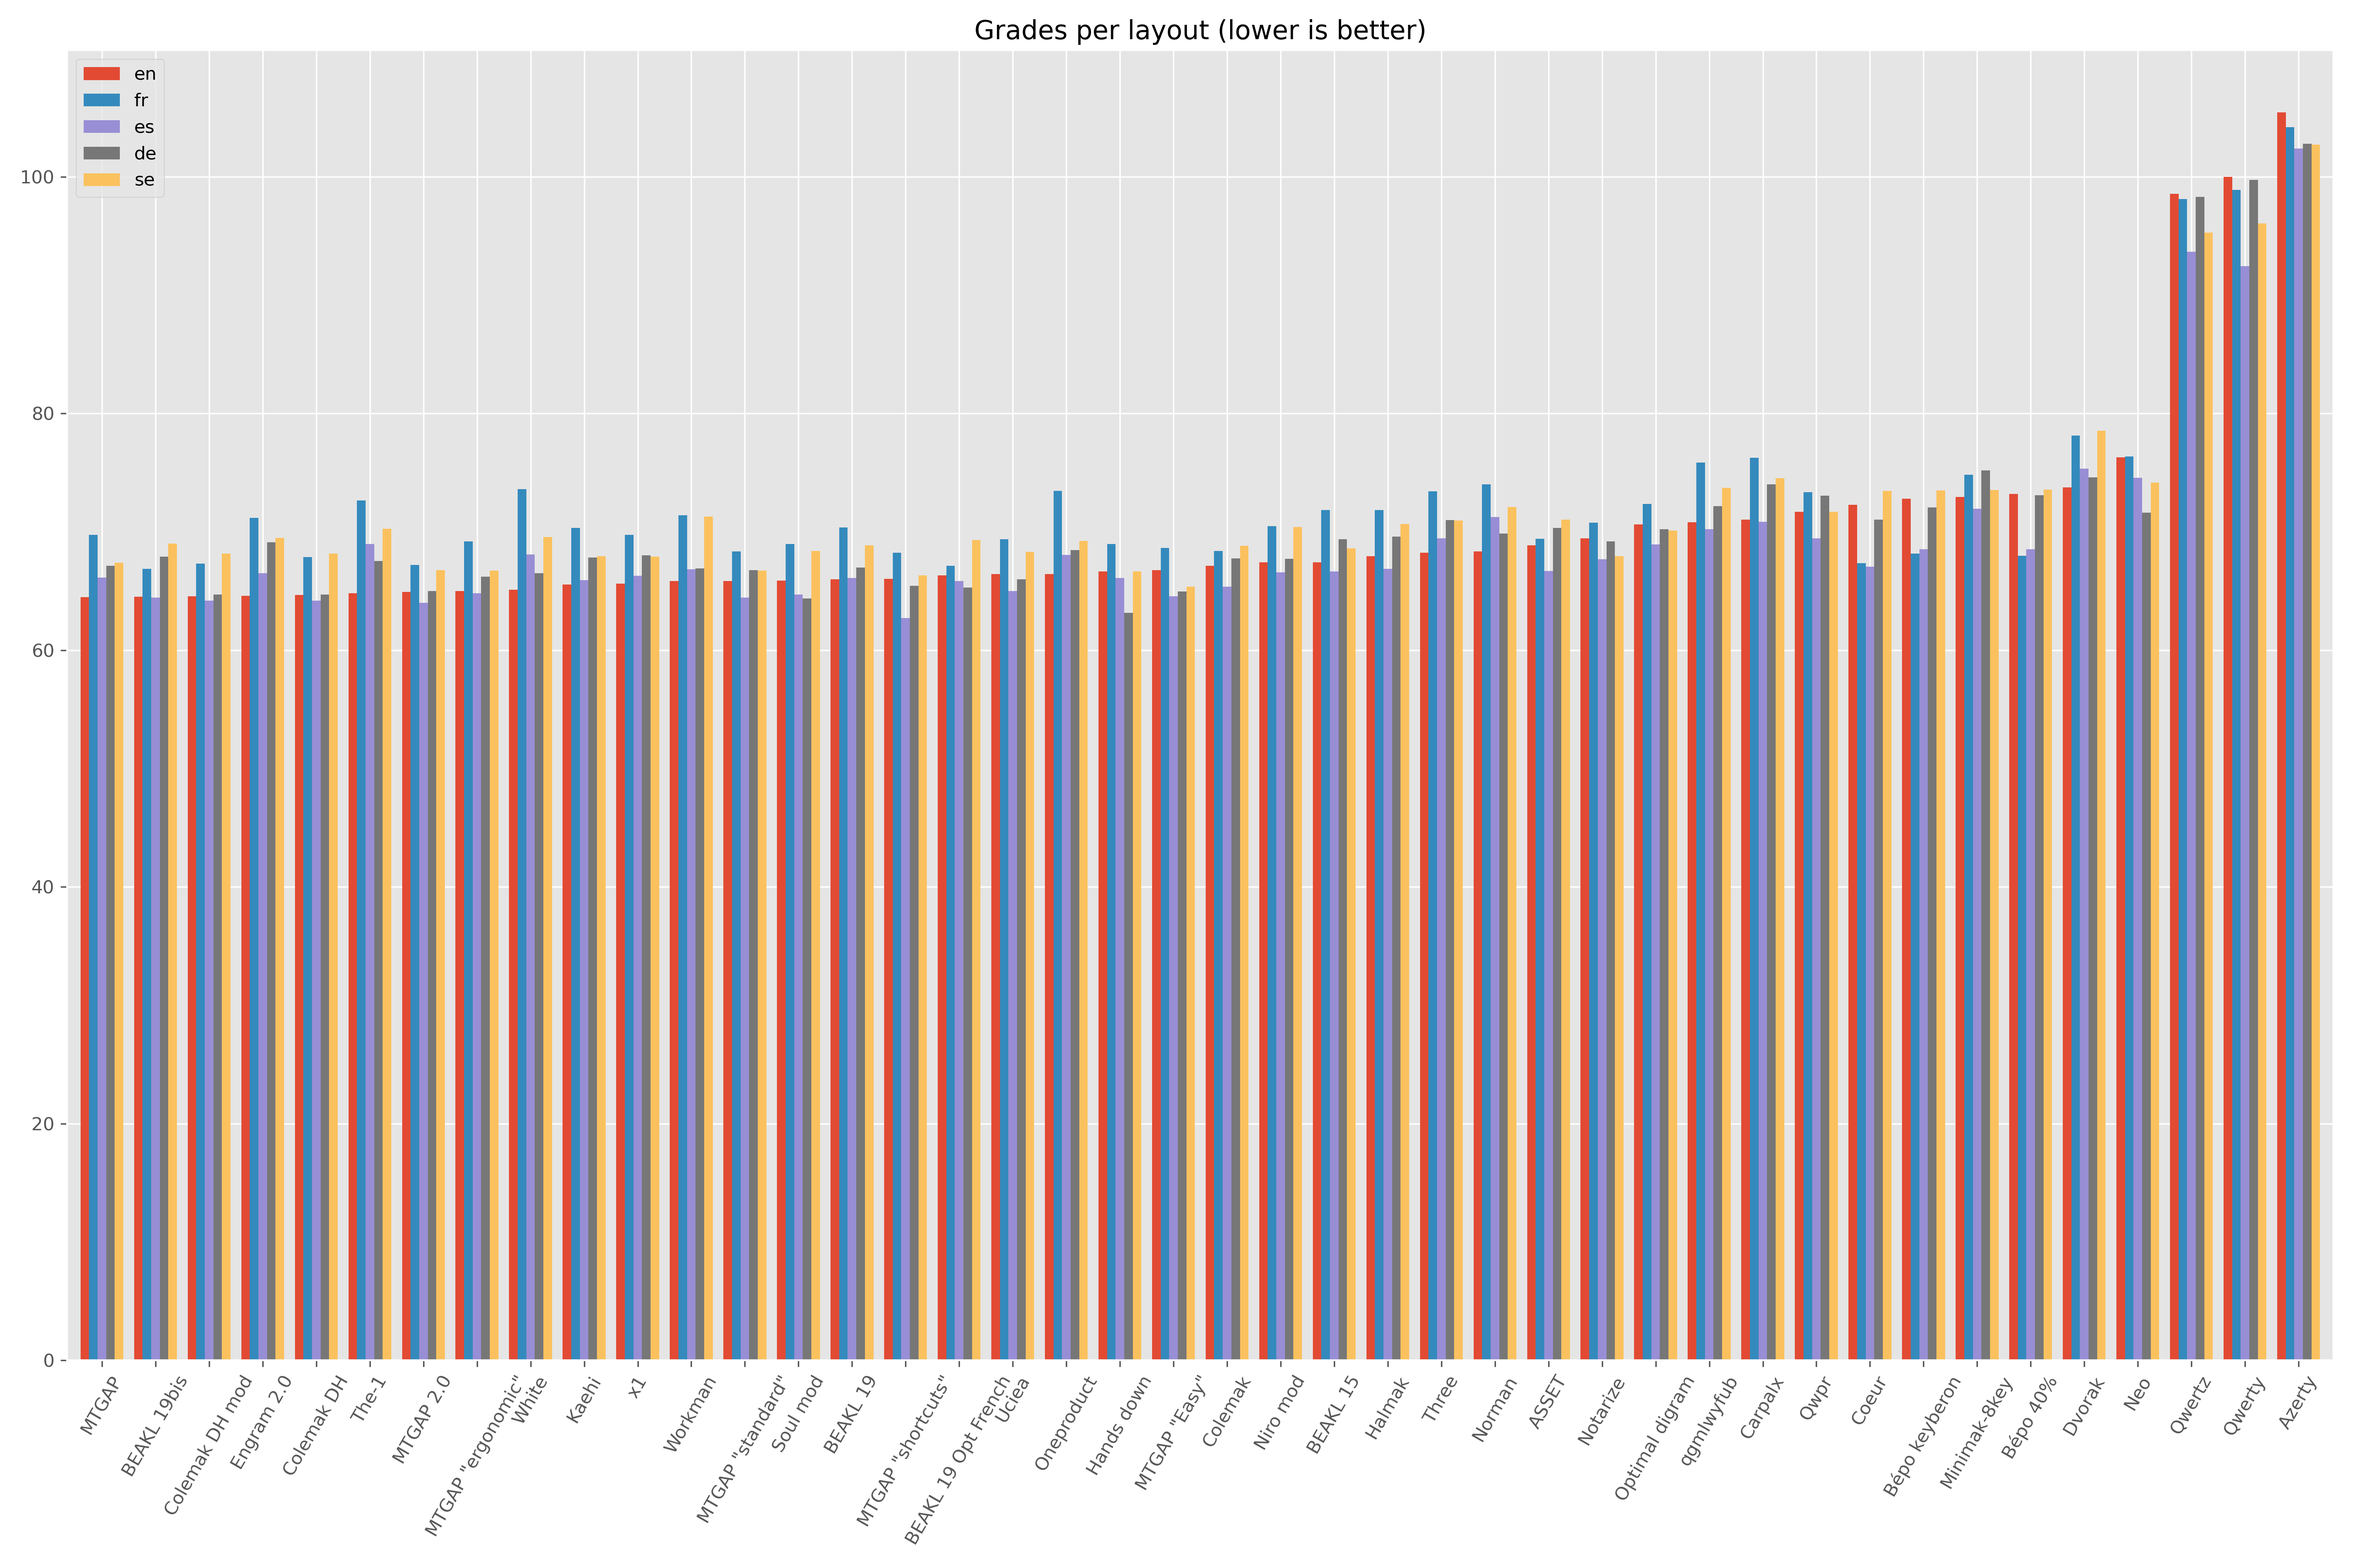
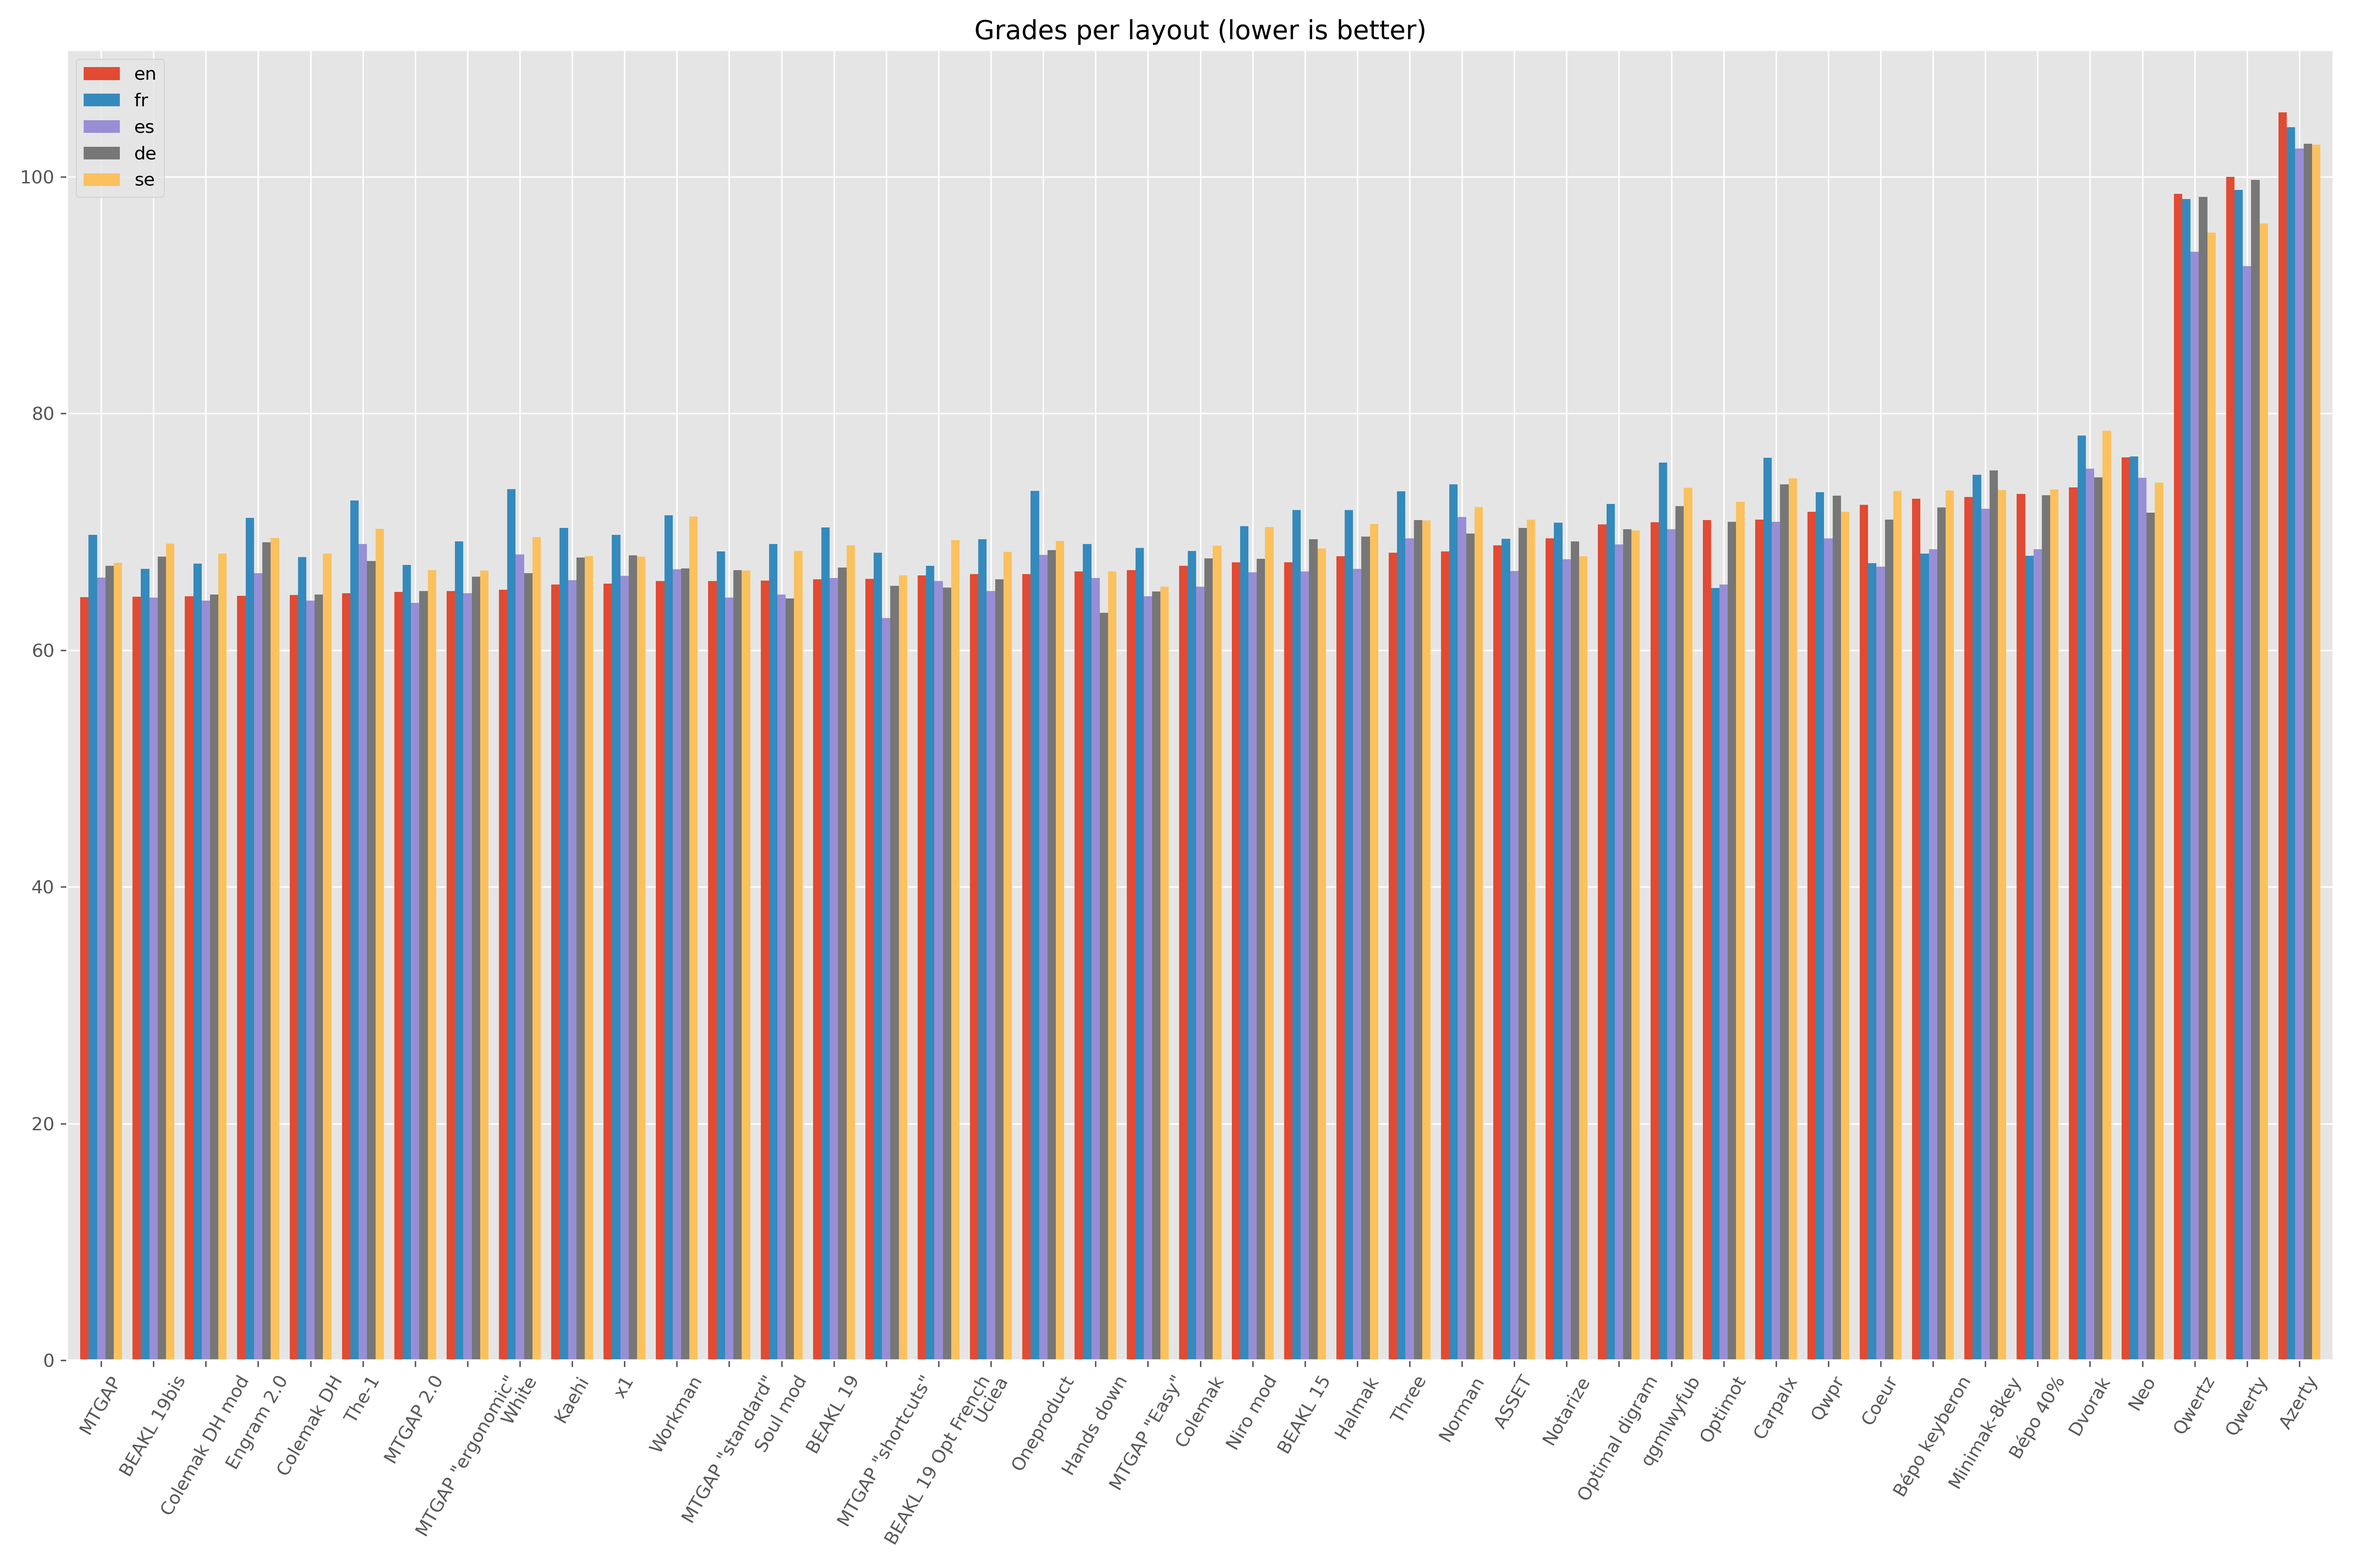
added Optimot layout

diff --git a/README.md b/README.md
@@ -249,6 +249,7 @@ Here is the complete results list. The layouts can be seen in `config.txt`.
 | [Notarize](https://sites.google.com/alanreiser.com/handsdown)                                                                                 |   69.45 |         68.83 |  70.76 |        68.81 |   67.68 |  69.21 |   67.94 |
 | [Optimal digram](https://keyboard-design.com/letterlayout.html?layout=optimal-digram.en.ansi)                                                 |   70.64 |         70.21 |  72.36 |        71.53 |   68.94 |  70.21 |   70.11 |
 | [qgmlwyfub](http://mkweb.bcgsc.ca/carpalx/?full_optimization)                                                                                 |   70.83 |         70.39 |  75.87 |        76.11 |   70.24 |  72.16 |   73.71 |
+| Optimot                                                                                                                                       |   70.98 |         70.79 |  65.24 |        63.64 |   65.56 |  70.85 |   72.55 |
 | [Carpalx](http://mkweb.bcgsc.ca/carpalx/?full_optimization)                                                                                   |   71.02 |         70.70 |  76.25 |        76.62 |   70.86 |  74.00 |   74.53 |
 | [Qwpr](https://sourceforge.net/projects/qwpr/)                                                                                                |   71.69 |         71.30 |  73.36 |        72.93 |   69.44 |  73.07 |   71.69 |
 | [Coeur](https://bepo.fr/wiki/Utilisateur:Bibidibop)                                                                                           |   72.29 |         72.46 |  67.35 |        65.66 |   67.07 |  71.04 |   73.48 |
